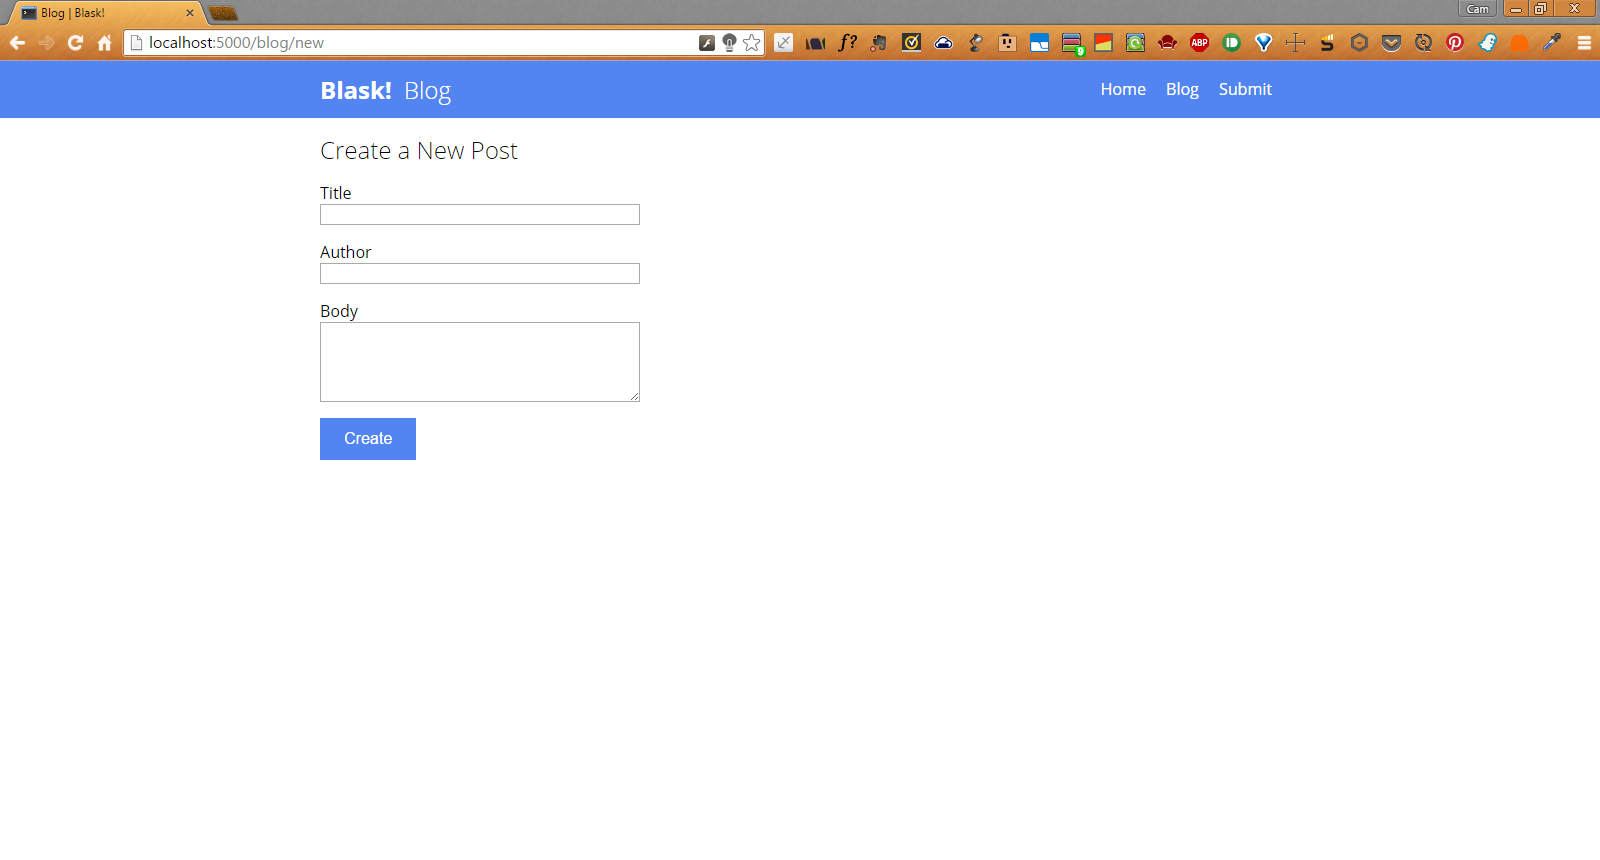
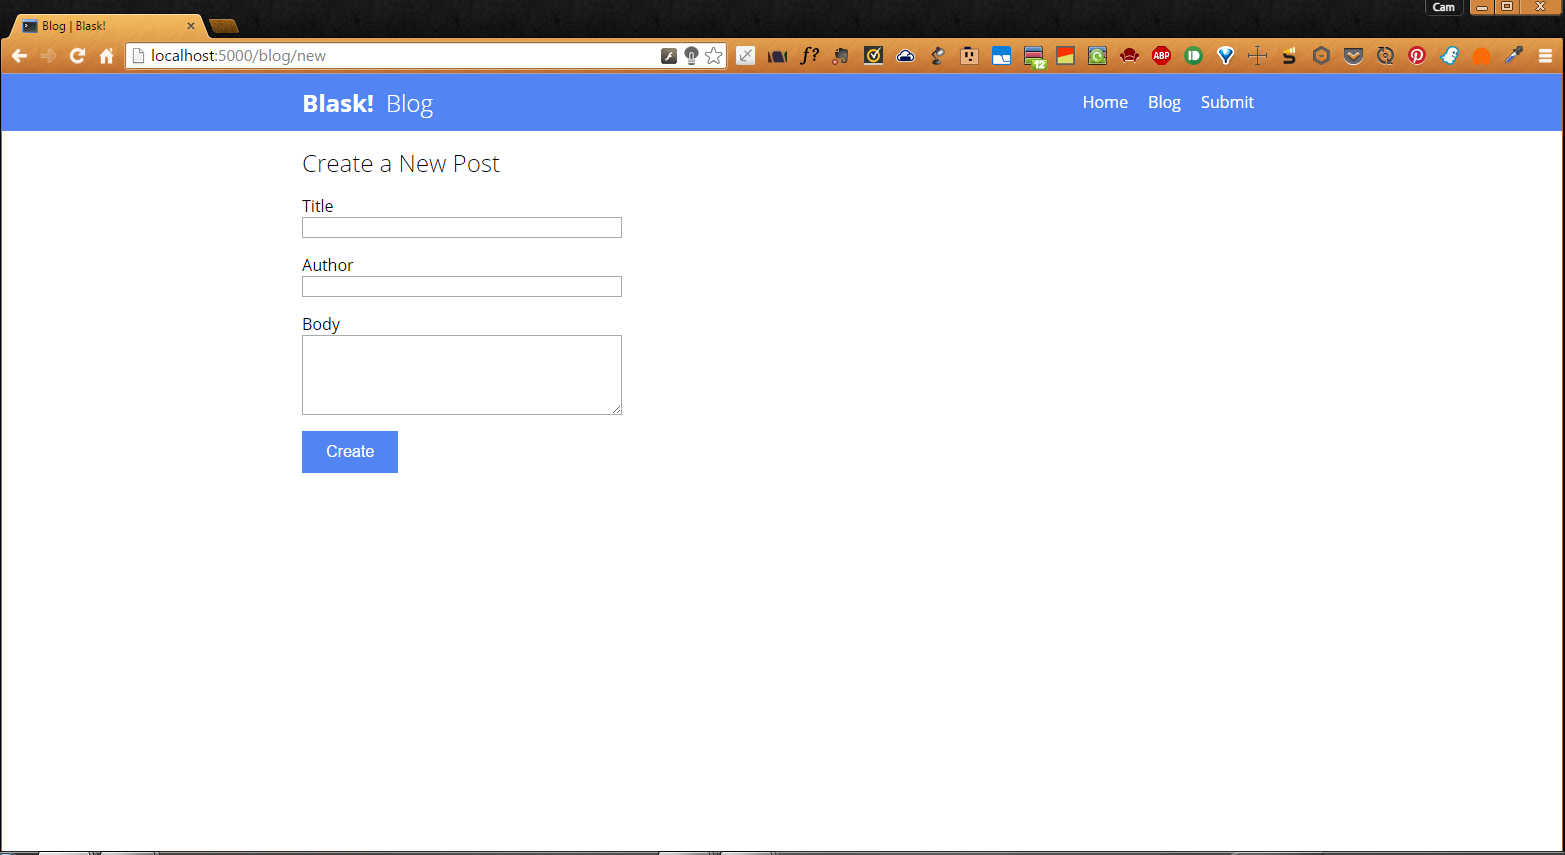
Various tickmark fixes and a screenshot with a cleaner border

Changed region(s): [[0.0, 0.0, 1.0, 1.0], [0.184, 0.4561, 0.3987, 0.5778]]

diff --git a/README.md b/README.md
@@ -1,8 +1,7 @@
 Intermediate Flask
 ==================
 
-By [Dan Schlosser](http://danrs.ch) and [ADI](https://adicu.com)
-With help from [Cameron Yick](http://cameronyick.us)
+By [Dan Schlosser](http://danrs.ch) and [ADI](https://adicu.com), with help from [Cameron Yick](http://cameronyick.us)
 
 ## Table of Contents
 
@@ -567,8 +566,6 @@ And voila! Now if we go to `http://localhost:5000/blog/`, you should see a list 
 
 ## 5.0 Working with Forms
 
-*Work in progress-  See the code in the `blask-5/` folder for reference*
-
 So now you can display blog posts, but how can you add new blogposts to the database? With forms!
 The Flask framework has the WTForms library built-in, so you don't need to install any new packages. Let's get started!
 
@@ -617,11 +614,11 @@ def new():
 
     return render_template('new.html', form=form)
 ```
-If a form is submitted to the `localhost:5000/blog/new` route, `form.validate()` will compare the csrf_token with the secret key. If everything is valid, the form will be saved to the database. Otherwise, the user will be redirected to the form submission page. Note that the rendered form is auto-populated with the fieldnames of a BlogPostForm object. To make use of them though, you'll still need to know what properties to render in your HTML page. 
+If a form is submitted to the `localhost:5000/blog/new` route, `form.validate()` will compare the `csrf_token` with the secret key. If everything is valid, the form will be saved to the database. Otherwise, the user will be redirected to the form submission page. Note that the rendered form is auto-populated with the fieldnames of a `BlogPostForm` object. To make use of them though, you'll still need to know what properties to render in your HTML page. 
 
 All right! The logic is taken care of, so now it's time to take care of styling and actually displaying the new blog posts form.
 
-First, add some basic form styling to style.css
+First, add some basic form styling to `style.css`
 ```css
 /* Form styles */
 
@@ -654,9 +651,9 @@ label {
 }
 ```
 
-Almost there! Now, create a file under `templates` called `new.html`. Note `form.csrf_token`: this token gets compared with the "secret key" property, as a security measure protecting against form submissions from other websites.
+Almost there! Now, create a file under `templates` called `new.html`. Note `form.csrf_token`: this token gets compared with the "secret key" property in your `app/__init__.py` file as a security measure protecting against form submissions from other websites.
 
-> `csrf` stands for *cross-site request forgery*. Read more [here](http://stackoverflow.com/questions/5207160/what-is-a-csrf-token-what-is-its-importance-and-how-does-it-work) 
+> `csrf` stands for *cross-site request forgery*. If you're curious, you can read more [here](http://stackoverflow.com/questions/5207160/what-is-a-csrf-token-what-is-its-importance-and-how-does-it-work) 
 
 ```html
 {% extends "home.html" %}
